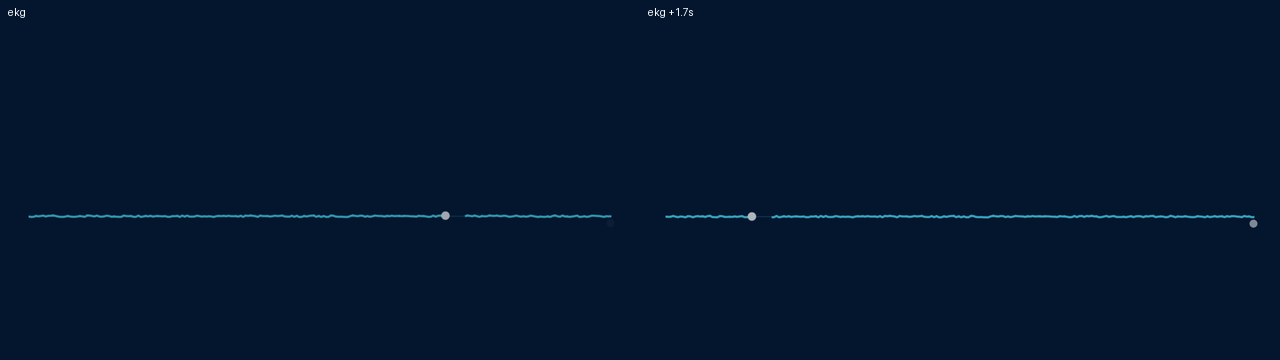
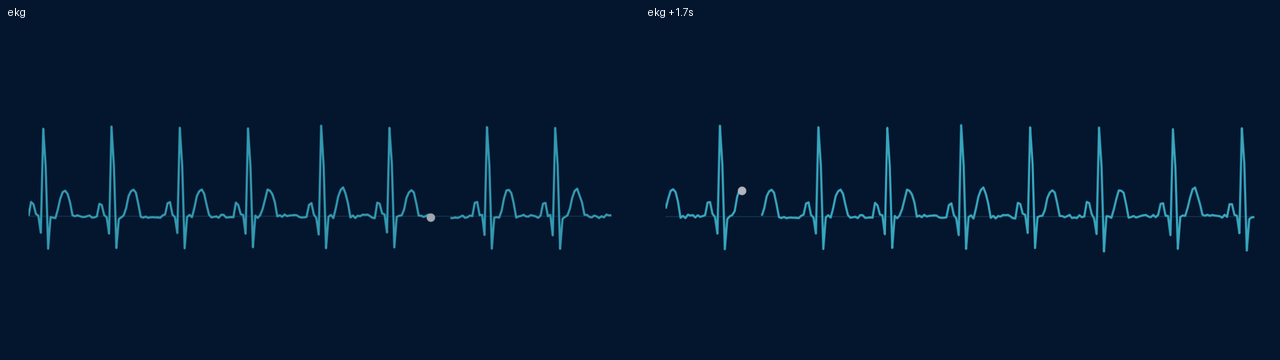
radar: estela de barrido de 50° detrás de la aguja y ecos que se encienden al paso (r11.1)

Changed region(s): [[0.5, 0.3972, 1.0, 0.6722], [0.0, 0.3972, 0.4688, 0.6722]]

diff --git a/shell/Motif.qml b/shell/Motif.qml
@@ -13,6 +13,7 @@
 //   · line traces that must change repaint at 30 Hz, never per frame
 //   · anything made of many pieces is plain rectangles moved by bindings
 import QtQuick
+import QtQuick.Shapes
 
 Item {
     id: motif
@@ -642,12 +643,42 @@ Item {
                     opacity: 0.35
                 }
 
-                // la aguja
+                // la aguja y su estela: una cuña de 50° con alfa decreciente DETRÁS de la
+                // aguja (gradiente cónico: 0 = la aguja, sube hacia atrás). Es geometría
+                // estática que gira con la aguja: no cuesta nada por cuadro
                 Item {
                     anchors.centerIn: parent
                     width: radar.width
                     height: radar.height
                     rotation: radar.angle
+
+                    Shape {
+                        anchors.fill: parent
+                        preferredRendererType: Shape.GeometryRenderer
+                        ShapePath {
+                            strokeWidth: -1
+                            fillGradient: ConicalGradient {
+                                centerX: radar.width / 2
+                                centerY: radar.height / 2
+                                angle: 0
+                                GradientStop { position: 0.0; color: Qt.rgba(motif.colour.r, motif.colour.g, motif.colour.b, 0.5) }
+                                GradientStop { position: 0.04; color: Qt.rgba(motif.colour.r, motif.colour.g, motif.colour.b, 0.28) }
+                                GradientStop { position: 0.14; color: Qt.rgba(motif.colour.r, motif.colour.g, motif.colour.b, 0) }
+                                GradientStop { position: 1.0; color: Qt.rgba(motif.colour.r, motif.colour.g, motif.colour.b, 0) }
+                            }
+                            startX: radar.width / 2
+                            startY: radar.height / 2
+                            PathLine { x: radar.width; y: radar.height / 2 }
+                            PathArc {
+                                x: radar.width / 2 + radar.width / 2 * Math.cos(-50 * Math.PI / 180)
+                                y: radar.height / 2 + radar.width / 2 * Math.sin(-50 * Math.PI / 180)
+                                radiusX: radar.width / 2
+                                radiusY: radar.width / 2
+                                direction: PathArc.Counterclockwise
+                            }
+                            PathLine { x: radar.width / 2; y: radar.height / 2 }
+                        }
+                    }
 
                     Rectangle {
                         x: parent.width / 2
@@ -662,21 +693,26 @@ Item {
                     }
                 }
 
-                // ecos que aparecen con el golpe
+                // los ecos se ENCIENDEN cuando la aguja pasa por su ángulo y se apagan en
+                // unos 90° (la memoria del barrido: lo que hace que se lea como radar). El
+                // golpe sólo suma un poco, ya no los prende a todos a la vez
                 Repeater {
-                    model: radar.visible ? 5 : 0
+                    model: radar.visible ? 7 : 0
 
                     Rectangle {
                         required property int index
                         readonly property real ang: index * 2.31
                         readonly property real rad: radar.width * (0.16 + (index % 3) * 0.14)
+                        // grados que lleva la aguja pasada del eco (0 = recién pasó)
+                        readonly property real age: (((radar.angle - ang * 180 / Math.PI) % 360) + 360) % 360
+                        readonly property real lit: age < 90 ? Math.pow(1 - age / 90, 1.6) : 0
                         x: radar.width / 2 + Math.cos(ang) * rad - width / 2
                         y: radar.height / 2 + Math.sin(ang) * rad - height / 2
-                        width: radar.width * (0.02 + 0.02 * motif.punch)
+                        width: radar.width * (0.018 + 0.016 * lit + 0.012 * motif.punch)
                         height: width
                         radius: width / 2
-                        color: motif.hot
-                        opacity: 0.25 + 0.7 * motif.punch
+                        color: age < 20 ? motif.hot : motif.colour
+                        opacity: Math.min(1, 0.07 + 0.93 * lit + 0.2 * motif.punch)
                     }
                 }
             }

diff --git a/previews/motivos/render.py b/previews/motivos/render.py
@@ -56,6 +56,7 @@ class Bench:
         self.t0 = time.time()
         self.next_beat = self.t0 + BEAT
         self.n = 0
+        self.level = 0.5
 
     def run(self, sec):
         """Tiempo real: reloj, un `tick` por tiempo, y deja pasar `sec` segundos."""
@@ -69,6 +70,8 @@ class Bench:
                 self.root.setProperty("tick", self.n)
                 self.root.setProperty("beat", self.n)
                 self.root.setProperty("kick", self.n)
+                # el volumen llega vivo (14 Hz): el ekg se calla si no cambia en 2 s
+                self.root.setProperty("level", self.level + 0.04 * (self.n % 2))
             self.app.processEvents()
             time.sleep(0.004)
 
@@ -90,25 +93,25 @@ def scene(kind, tag):
     b = Bench(kind)
     shots = []
     if kind == "radar":
-        b.root.setProperty("level", 0.55)
+        b.level = 0.55
         b.run(1.0)
         for i in range(4):
             b.run(0.9)
             shots.append((f"radar +{i * 0.9 + 1.0:.1f}s", b.grab()))
     elif kind == "rain":
-        b.root.setProperty("level", 0.5)
+        b.level = 0.5
         b.run(3.0)
         shots.append(("lluvia", b.grab()))
         b.run(1.0)
         shots.append(("lluvia +1s", b.grab()))
     elif kind == "ekg":
-        b.root.setProperty("level", 0.6)
+        b.level = 0.6
         b.run(6.5)
         shots.append(("ekg", b.grab()))
         b.run(1.7)
         shots.append(("ekg +1.7s", b.grab()))
     elif kind == "textsea":
-        b.root.setProperty("level", 0.5)
+        b.level = 0.5
         b.root.setProperty("lines", [{"t0": i, "t1": i + 1, "text": s} for i, s in enumerate(LETRA)])
         b.root.setProperty("linesSynced", True)
         b.root.setProperty("lineNo", 20)
@@ -118,14 +121,14 @@ def scene(kind, tag):
         b.run(1.5)
         shots.append(("textsea (verso 21)", b.grab()))
     elif kind == "harmonograph":
-        b.root.setProperty("level", 0.5)
+        b.level = 0.5
         b.run(3.5)
         for i in range(3):
             b.run_to_beat(0.0)
             shots.append((f"harmonograph t={time.time() - b.t0:.1f}s", b.grab()))
             b.run(4.0)
     elif kind == "vector":
-        b.root.setProperty("level", 0.5)
+        b.level = 0.5
         b.run(2.0)
         for k in range(2):
             b.run_to_beat(0.03)
